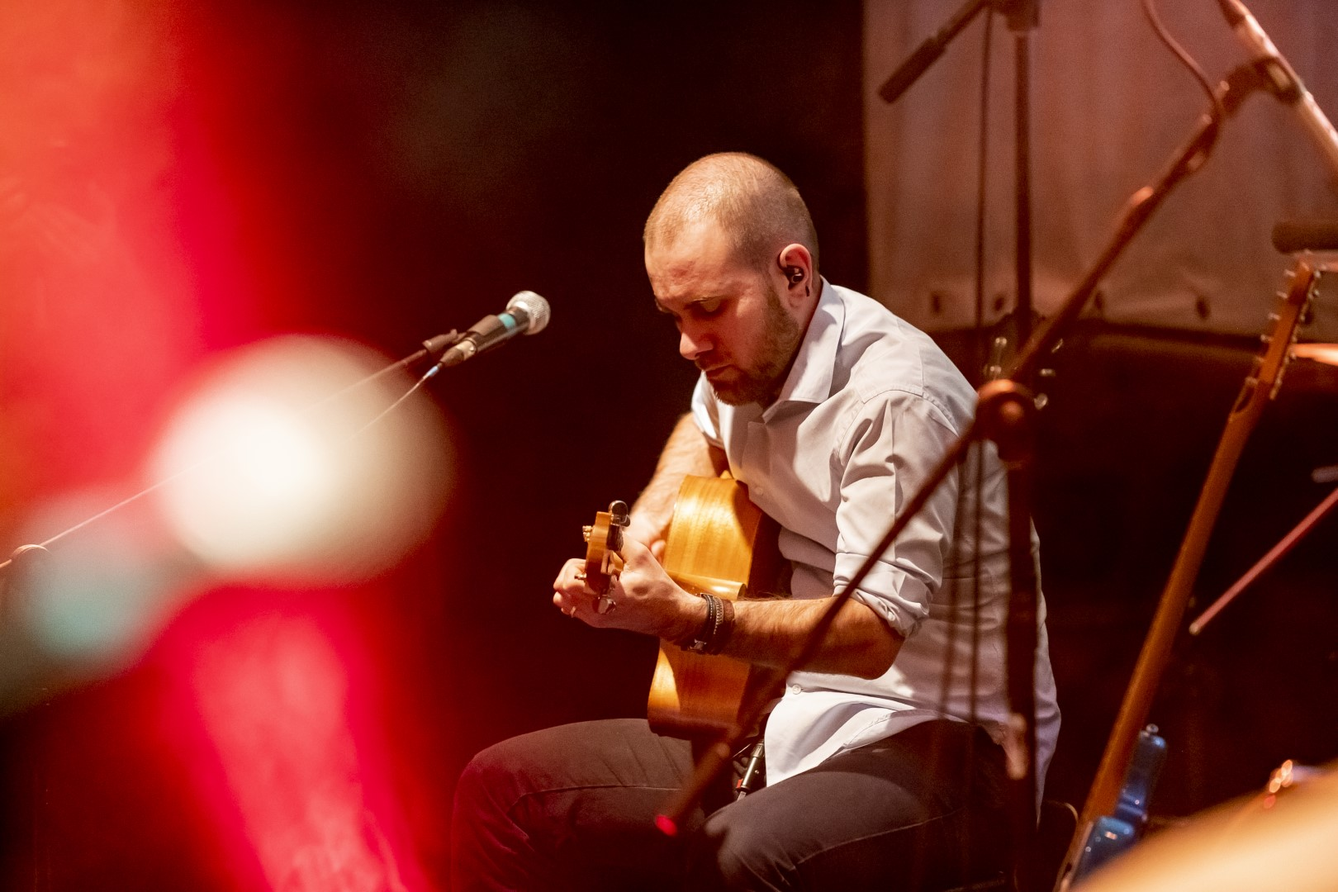
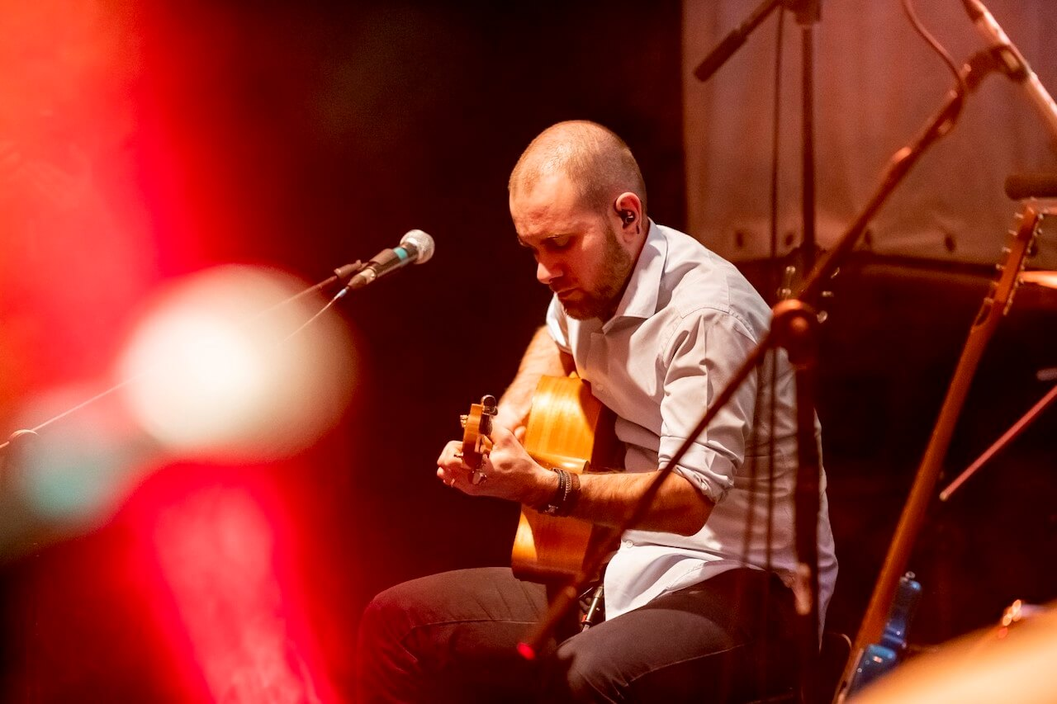
impl foto

diff --git a/css/style.css b/css/style.css
@@ -1,1 +1,1 @@
-*,*:before,*:after{box-sizing:border-box;margin:0;padding:0}html{-webkit-text-size-adjust:100%;-webkit-font-smoothing:antialiased;-moz-osx-font-smoothing:grayscale;scroll-behavior:smooth}body{background-color:#191919;color:#ddd;font-family:'Barlow Condensed',sans-serif;font-size:20px}h1,h2,h3,h4,p,ul,ol{display:block;font-size:inherit}img{max-width:100%;height:auto;border:0}hidden,.hidden{display:none !important}.right{float:right}[disabled]{opacity:.4;pointer-events:none}.btn{background-color:transparent;color:#ddd;border:1px solid #ddd;font-weight:800;display:inline-block;padding:10px 22px;border-radius:4px;cursor:pointer;transition:.3s;text-transform:uppercase;text-decoration:none;font-family:'Barlow Condensed',sans-serif;font-size:1rem}.btn:hover{background-color:#ddd;color:#191919}.btn+.btn{margin-left:6px}.btn.btn-soldout{opacity:.8;border-color:#b30000;color:#b30000;pointer-events:none}.btn.btn-important{background-color:#ddd;color:#191919}.btn-a{display:inline-block;border-bottom:8px solid #ccf5b3;color:#ccf5b3;padding-bottom:2px;font-weight:bold;font-size:2rem;cursor:pointer;transition:.3s}nav{position:absolute;bottom:30px;left:0;display:flex;flex-direction:row;z-index:100;font-size:.5rem;width:100%;justify-content:center}nav a{color:#ddd;text-decoration:none;font-size:1.6rem;padding:0px 0;transition:.3s;align-self:flex-start;margin-right:20px;cursor:pointer}nav a:hover:after{width:100%}nav a:hover{transform:translate(4px, 0)}nav a:after{transition:.3s;height:2px;content:'';width:0;position:absolute;bottom:-2px;left:0;background-color:#ddd}.photo-credits{position:absolute;top:10px;left:10px;z-index:10;font-size:.6rem}nav.social{bottom:30px;top:auto;right:30px;left:auto;text-align:right}nav.social a{font-size:1.5rem}.social-container{position:absolute}.social{position:absolute;top:12px;z-index:1;margin:0 auto;right:20px}.social img{width:30px;margin-left:5px}.logo{position:fixed;bottom:30px;left:30px;max-width:1000px;height:80px}.logo *{fill:#dddddd}.page{display:flex;padding:70px 120px 100px;justify-content:space-between;flex-wrap:wrap;max-width:1500px;margin:0 auto}.page .page-title{font-size:3rem;font-weight:bold;text-transform:uppercase;width:100%;margin-bottom:50px}.strip-1{background-image:url(img/photo/Foto-1079.jpg);height:400px;background-size:cover;width:calc(100% + 120px);margin:0 -120px;background-position:bottom;filter:saturate(.5)}.page-ventinove{justify-content:center;background-image:url(../img/ventinove-bkg.jpg);background-size:cover;background-position:center;max-width:none;padding:80px 60px 100px}.page-ventinove .ventinove-cover{width:300px;margin-right:30px;box-shadow:0 0 100px #191919;transition:.3s}.page-ventinove .ventinove-cover:hover{transform:translateY(-5px)}.page-ventinove .ventinove-title{font-size:2rem;text-transform:uppercase;align-self:flex-end}.page-ventinove .ventinove-title .btn-important{margin-top:15px}.page-ventinove .btn+.btn{margin-top:10px;margin-left:0}.page-militanza{justify-content:center;background-image:url(../img/militanza-bkg.jpg);background-size:cover;background-position:center;max-width:none;padding:80px 60px 100px}.page-militanza .militanza-cover{width:300px;margin-right:30px;box-shadow:0 0 100px #191919;transition:.3s}.page-militanza .militanza-cover:hover{transform:translateY(-5px)}.page-militanza .militanza-title{font-size:2rem;text-transform:uppercase;align-self:flex-end;color:#4b4130}.page-militanza .militanza-title .btn-important{margin-top:15px}.page-militanza .btn+.btn{margin-top:10px;margin-left:0}.page-vento{justify-content:center;background-image:url(../img/vento-in-tasca-bkg.jpg);background-size:cover;background-position:center;max-width:none;padding:80px 60px 100px}.page-vento .vento-cover{width:300px;margin-right:30px;box-shadow:0 0 100px #191919;transition:.3s}.page-vento .vento-cover:hover{transform:translateY(-5px)}.page-vento .vento-title{font-size:2rem;text-transform:uppercase;align-self:flex-end}.page-vento .vento-title .btn-important{margin-top:15px}.page-vento .btn+.btn{margin-top:10px;margin-left:0}.streaming{display:flex;justify-content:space-between;width:100%;flex-wrap:wrap}.streaming>a{height:50px;width:16%}.streaming>a div{height:100%;width:100%;background-size:cover}.page-streaming{padding-top:0}.page-disk .disk-container{display:flex;flex-wrap:wrap;justify-content:space-between}.page-disk .disk-container .disk{padding:20px;background:#222;margin-bottom:50px;box-shadow:0 0 30px #00000044;width:calc(22%);display:flex;flex-direction:column;flex-wrap:wrap;transition:.3s;will-change:transform}.page-disk .disk-container .disk:hover{transform:scale(1.03)}.page-disk .disk-container .disk .disk-title{font-weight:bold;margin-top:15px;font-size:1.2rem;text-align:right}.page-disk .disk-container .disk .disk-year{font-weight:500}.page-disk .disk-container .disk .disk-year,.page-disk .disk-container .disk .disk-label{text-align:right}.page-disk .disk-container .disk .disk-cover{width:calc(100% + 40px);height:auto;background-size:cover;margin:-20px -20px 0 -20px;max-width:none}.page-disk .disk-container .disk .disk-cta{margin-top:20px;text-align:right;flex-grow:1;display:flex;justify-content:flex-end;flex-wrap:wrap}.page-disk .disk-container .disk .disk-cta form>.btn{margin-left:10px}.page-disk .disk-container .disk .disk-cta .btn{margin-bottom:5px;align-self:flex-end}.page-disk .disk-container .disk form{display:inline}.page-andre{position:relative;background-color:#191919;padding-bottom:0}.page-andre .background-image{position:absolute;top:0;left:0;right:0;width:calc(100% + 70px);height:500px;background-size:100%;background-position:center;margin:0 -70px}.page-andre .background-image:after{content:'';position:absolute;top:0;left:0;width:100%;height:100%;background:linear-gradient(0deg, #191919, transparent)}.page-andre .page-title{text-align:right;position:relative}.page-andre .andre-intro{width:100%;min-height:400px;position:relative;display:flex;flex-direction:column;justify-content:end;margin-bottom:40px}.page-andre .andre-intro .andre-cit{font-style:italic;width:500px;font-size:1.1rem;text-align:right;align-self:flex-end}.page-andre .andre-intro .andre-cta{margin-top:30px;align-self:flex-end}.page-andre .andre-text{display:flex;padding-bottom:50px;justify-content:center;width:100%}.page-andre .andre-text>div:first-child{margin-right:40px}.page-andre .andre-text>*{width:350px}.page-andre .andre-img{width:100%;max-width:800px;margin:0 auto 60px}.page-andre .andre-text-strong{font-weight:600;font-style:italic;font-size:1.5rem;text-align:center;margin:50px 40px}.page-andre .andre-text-one-column{max-width:800px;margin:0 auto 60px}.page-andre .inline-gallery{margin:0 -120px 60px;width:calc(100% + 240px)}.inline-gallery{display:flex;width:100%;margin:0;flex-wrap:wrap}.inline-gallery>*{width:33.3333%;height:40vh;background-position:center;background-size:cover;filter:saturate(.7)}.highlights{font-weight:600;font-style:italic;font-size:1.5rem;text-align:center;margin:50px 40px;z-index:10;position:relative}.page-newsletter{justify-content:center;background-color:#222222;padding:50px}.page-newsletter .page-title{text-align:center;font-size:1.65rem}.page-newsletter form{display:flex}.page-newsletter .newsletter-input{position:relative}.page-newsletter .newsletter-input label{position:absolute;top:-20px}.page-newsletter .newsletter-input input{height:33px;border-radius:4px;border:none;width:240px;background-color:#ddd;margin-right:20px}.page-contact a{color:#ddd;margin-bottom:10px}.page-contact .contact-title{font-size:1.5rem;font-weight:bold;margin-bottom:10px}.page-contact>div:not(.page-title){margin-bottom:30px}.page-concert{width:100%;max-width:1000px;margin:0 auto}.page-concert a{color:#fff}.page-concert .concerts{margin:0 auto}.page-concert .concerts .concert:nth-child(odd){background-color:#222}.page-concert .concerts .concert{display:flex;flex-direction:row;justify-content:center;align-items:center;width:100%;padding:10px 20px}.page-concert .concerts .concert .concert-date{font-size:1.3rem;font-weight:bold;margin-right:20px}.page-concert .concerts .concert .concert-text{flex-grow:1}.page-concert .concerts .concert .concert-place{margin-right:10px;margin-bottom:5px}.page-concert .concerts .concert .concert-name{width:100%;font-style:italic;font-size:.9rem}.page-concert .concerts .concert .concert-cta{display:flex;margin-left:15px}.page-about{max-width:1000px;margin:0 auto}.page-about .about-image{width:100%;height:300px;background-position:bottom;background-size:cover;position:relative;margin:0px 0 60px}.page-about p{margin-bottom:10px}.page-fullscreen{position:relative;height:100vh;width:100%;max-width:none;max-height:1000px}.page-fullscreen .logo{width:300px;position:absolute;bottom:90px;margin:0 auto;left:0;right:0;z-index:10}.page-fullscreen .volume-off,.page-fullscreen .volume-on{position:absolute;top:10px;left:15px;z-index:150;width:40px;transition:.3s;cursor:pointer}.page-fullscreen .volume-off:hover,.page-fullscreen .volume-on:hover{opacity:.6}.page-fullscreen:after{content:'';position:absolute;bottom:0;left:0;width:100%;height:300px;background:linear-gradient(0deg, black, transparent);z-index:1}.shop-container{display:flex;flex-direction:column;min-height:100%;margin-top:40vh;margin-bottom:300px}.shop-item{width:70vw;max-width:2000px;margin:0 auto;margin-bottom:0;display:flex;position:relative}.shop-item .thumbs{display:flex;flex-direction:column}.shop-item .thumbs .thumb{width:100px;margin:0 0 10px 20px}.shop-item .item-title{font-size:3rem;color:#ddd}.shop-item .item-year{font-size:2rem}.shop-item .item-img{height:500px;width:500px;background-size:contain;background-repeat:no-repeat}.shop-item .item-desc{margin:0 50px;font-size:1.2rem}.shop-item .item-text{margin:40px 0 80px;color:#ddd}.item-alternative{flex-direction:row-reverse}.item-alternative .item-desc{text-align:right}.blocks{display:flex;flex-direction:column;min-height:100%;margin-top:40vh}.block{height:50vw;width:70vw;max-height:600px;max-width:2000px;margin:0 auto;margin-bottom:300px;position:relative}.block:hover .block-bkg{transform:scale(1.1)}.block:hover .block-title{transform:translate(10px, 10px)}.block:hover .block-description{transform:translate(10px, 10px)}.block:hover .btn{transform:translate(10px, 10px)}.block-bkg,video{width:100%;height:100%;position:absolute;top:0;left:0;background-size:cover;background-position:center;transition:.3s}video{object-fit:cover}.block-title{position:absolute;top:-30px;left:30px;font-weight:bold;color:#ddd;text-transform:uppercase;font-size:3em;transition:.3s}.block-description{color:#ddd;width:50%;position:absolute;right:30px;bottom:50px;font-size:1.2rem;transition:.3s}.block-description .btn{float:right;margin-top:30px}.block-alternative .block-title{right:30px;left:auto}.block-alternative .block-description{left:30px;right:auto}.block-alternative .block-description .btn{float:left}.cursor{position:fixed;left:0;top:0;pointer-events:none;left:-10px;top:-10px;z-index:11000;width:20px;height:20px;border:1px solid white;border-radius:50%;transition-duration:.3s;transition-timing-function:cubic-bezier(0, 0, .14, .99)}.cursor-hover{left:-25px;top:-25px;width:50px;height:50px;animation:cursorAnim3 .5s forwards;border:2px solid #ccf5b3}.cursor:after{content:"";width:6px;height:6px;position:absolute;background-color:#ccf5b3;border-radius:50%;opacity:.5;top:6px;left:6px;transition:.5s}.cursor-hover:after{width:40px;height:40px;top:2.5px;left:2.5px;backdrop-filter:invert(1)}@media screen and (max-width:1024px){.disk{width:calc(33% - 10px) !important}}@media screen and (max-width:768px){.page{padding:70px 40px 100px}.page-andre .inline-gallery{margin:0 -40px 60px !important;width:calc(100% + 80px) !important}.streaming{justify-content:center}.streaming a{width:150px}nav{flex-direction:column}nav a{align-self:center;font-size:1.2rem}.page-fullscreen .logo{bottom:160px}.inline-gallery>*{width:50%}.disk{width:calc(50% - 10px) !important}.page-concert .concerts .concert{flex-direction:column;text-align:center}.page-concert .concerts .concert .concert-cta{margin-top:15px;margin-bottom:5px;margin-left:0}.page-ventinove .ventinove-cover{margin-right:0}.page-ventinove .ventinove-title{text-align:center;margin-top:30px}.page-vento .vento-cover{margin-right:0}.page-vento .vento-title{text-align:center;margin-top:30px}}@media screen and (max-width:425px){.page{padding:30px 40px 60px}.page .page-title{font-size:1.8rem !important}.page-fullscreen .logo{width:calc(100% - 40px);bottom:160px}.page-andre .andre-intro .andre-cit{font-size:1.1rem;width:100%}.page-andre .andre-img{display:none}.page-andre .background-image{height:250px;background-repeat:no-repeat}.page-andre .andre-text-strong{margin:0px 0px 50px}.andre-text{flex-direction:column}.andre-text>div{width:100% !important}.andre-cta{display:flex;flex-direction:column;justify-content:center;width:100%}.andre-cta>.btn{width:auto;margin-left:0;margin-bottom:10px;text-align:center;align-self:center}.page-newsletter{padding:30px 30px 50px}.page-newsletter form{flex-direction:column;width:100%}.page-newsletter .newsletter-input{position:relative}.page-newsletter .newsletter-input label{position:absolute;top:-20px}.page-newsletter .newsletter-input input{width:100%;margin:10px 0}.highlights{font-size:1rem}.about-image{height:100px !important}.inline-gallery>*{width:100%}.disk{width:calc(100% - 10px) !important}}
+*,*:before,*:after{box-sizing:border-box;margin:0;padding:0}html{-webkit-text-size-adjust:100%;-webkit-font-smoothing:antialiased;-moz-osx-font-smoothing:grayscale;scroll-behavior:smooth}body{background-color:#191919;color:#ddd;font-family:'Barlow Condensed',sans-serif;font-size:20px}h1,h2,h3,h4,p,ul,ol{display:block;font-size:inherit}img{max-width:100%;height:auto;border:0}hidden,.hidden{display:none !important}.right{float:right}[disabled]{opacity:.4;pointer-events:none}.btn{background-color:transparent;color:#ddd;border:1px solid #ddd;font-weight:800;display:inline-block;padding:10px 22px;border-radius:4px;cursor:pointer;transition:.3s;text-transform:uppercase;text-decoration:none;font-family:'Barlow Condensed',sans-serif;font-size:1rem}.btn:hover{background-color:#ddd;color:#191919}.btn+.btn{margin-left:6px}.btn.btn-soldout{opacity:.8;border-color:#b30000;color:#b30000;pointer-events:none}.btn.btn-important{background-color:#ddd;color:#191919}.btn-a{display:inline-block;border-bottom:8px solid #ccf5b3;color:#ccf5b3;padding-bottom:2px;font-weight:bold;font-size:2rem;cursor:pointer;transition:.3s}nav{position:absolute;bottom:30px;left:0;display:flex;flex-direction:row;z-index:100;font-size:.5rem;width:100%;justify-content:center}nav a{color:#ddd;text-decoration:none;font-size:1.6rem;padding:0px 0;transition:.3s;align-self:flex-start;margin-right:20px;cursor:pointer}nav a:hover:after{width:100%}nav a:hover{transform:translate(4px, 0)}nav a:after{transition:.3s;height:2px;content:'';width:0;position:absolute;bottom:-2px;left:0;background-color:#ddd}.photo-credits{position:absolute;top:10px;left:10px;z-index:10;font-size:.6rem}nav.social{bottom:30px;top:auto;right:30px;left:auto;text-align:right}nav.social a{font-size:1.5rem}.social-container{position:absolute}.social{position:absolute;top:12px;z-index:1;margin:0 auto;right:20px}.social img{width:30px;margin-left:5px}.logo{position:fixed;bottom:30px;left:30px;max-width:1000px;height:80px}.logo *{fill:#dddddd}.page{display:flex;padding:70px 120px 100px;justify-content:space-between;flex-wrap:wrap;max-width:1500px;margin:0 auto}.page .page-title{font-size:3rem;font-weight:bold;text-transform:uppercase;width:100%;margin-bottom:50px}.strip-1{background-image:url(img/photo/all.jpg);height:400px;background-size:cover;width:calc(100% + 120px);margin:0 -120px;background-position:bottom;filter:saturate(.5)}.page-ventinove{justify-content:center;background-image:url(../img/ventinove-bkg.jpg);background-size:cover;background-position:center;max-width:none;padding:80px 60px 100px}.page-ventinove .ventinove-cover{width:300px;margin-right:30px;box-shadow:0 0 100px #191919;transition:.3s}.page-ventinove .ventinove-cover:hover{transform:translateY(-5px)}.page-ventinove .ventinove-title{font-size:2rem;text-transform:uppercase;align-self:flex-end}.page-ventinove .ventinove-title .btn-important{margin-top:15px}.page-ventinove .btn+.btn{margin-top:10px;margin-left:0}.page-militanza{justify-content:center;background-image:url(../img/militanza-bkg.jpg);background-size:cover;background-position:center;max-width:none;padding:80px 60px 100px}.page-militanza .militanza-cover{width:300px;margin-right:30px;box-shadow:0 0 100px #191919;transition:.3s}.page-militanza .militanza-cover:hover{transform:translateY(-5px)}.page-militanza .militanza-title{font-size:2rem;text-transform:uppercase;align-self:flex-end;color:#4b4130}.page-militanza .militanza-title .btn-important{margin-top:15px}.page-militanza .btn+.btn{margin-top:10px;margin-left:0}.page-vento{justify-content:center;background-image:url(../img/vento-in-tasca-bkg.jpg);background-size:cover;background-position:center;max-width:none;padding:80px 60px 100px}.page-vento .vento-cover{width:300px;margin-right:30px;box-shadow:0 0 100px #191919;transition:.3s}.page-vento .vento-cover:hover{transform:translateY(-5px)}.page-vento .vento-title{font-size:2rem;text-transform:uppercase;align-self:flex-end}.page-vento .vento-title .btn-important{margin-top:15px}.page-vento .btn+.btn{margin-top:10px;margin-left:0}.streaming{display:flex;justify-content:space-between;width:100%;flex-wrap:wrap}.streaming>a{height:50px;width:16%}.streaming>a div{height:100%;width:100%;background-size:cover}.page-streaming{padding-top:0}.page-disk .disk-container{display:flex;flex-wrap:wrap;justify-content:space-between}.page-disk .disk-container .disk{padding:20px;background:#222;margin-bottom:50px;box-shadow:0 0 30px #00000044;width:calc(22%);display:flex;flex-direction:column;flex-wrap:wrap;transition:.3s;will-change:transform}.page-disk .disk-container .disk:hover{transform:scale(1.03)}.page-disk .disk-container .disk .disk-title{font-weight:bold;margin-top:15px;font-size:1.2rem;text-align:right}.page-disk .disk-container .disk .disk-year{font-weight:500}.page-disk .disk-container .disk .disk-year,.page-disk .disk-container .disk .disk-label{text-align:right}.page-disk .disk-container .disk .disk-cover{width:calc(100% + 40px);height:auto;background-size:cover;margin:-20px -20px 0 -20px;max-width:none}.page-disk .disk-container .disk .disk-cta{margin-top:20px;text-align:right;flex-grow:1;display:flex;justify-content:flex-end;flex-wrap:wrap}.page-disk .disk-container .disk .disk-cta form>.btn{margin-left:10px}.page-disk .disk-container .disk .disk-cta .btn{margin-bottom:5px;align-self:flex-end}.page-disk .disk-container .disk form{display:inline}.page-andre{position:relative;background-color:#191919;padding-bottom:0}.page-andre .background-image{position:absolute;top:0;left:0;right:0;width:calc(100% + 70px);height:500px;background-size:100%;background-position:center;margin:0 -70px}.page-andre .background-image:after{content:'';position:absolute;top:0;left:0;width:100%;height:100%;background:linear-gradient(0deg, #191919, transparent)}.page-andre .page-title{text-align:right;position:relative}.page-andre .andre-intro{width:100%;min-height:400px;position:relative;display:flex;flex-direction:column;justify-content:end;margin-bottom:40px}.page-andre .andre-intro .andre-cit{font-style:italic;width:500px;font-size:1.1rem;text-align:right;align-self:flex-end}.page-andre .andre-intro .andre-cta{margin-top:30px;align-self:flex-end}.page-andre .andre-text{display:flex;padding-bottom:50px;justify-content:center;width:100%}.page-andre .andre-text>div:first-child{margin-right:40px}.page-andre .andre-text>*{width:350px}.page-andre .andre-img{width:100%;max-width:800px;margin:0 auto 60px}.page-andre .andre-text-strong{font-weight:600;font-style:italic;font-size:1.5rem;text-align:center;margin:50px 40px}.page-andre .andre-text-one-column{max-width:800px;margin:0 auto 60px}.page-andre .inline-gallery{margin:0 -120px 60px;width:calc(100% + 240px)}.inline-gallery{display:flex;width:100%;margin:0;flex-wrap:wrap}.inline-gallery>*{width:33.3333%;height:40vh;background-position:center;background-size:cover;filter:saturate(.7)}.highlights{font-weight:600;font-style:italic;font-size:1.5rem;text-align:center;margin:50px 40px;z-index:10;position:relative}.page-newsletter{justify-content:center;background-color:#222222;padding:50px}.page-newsletter .page-title{text-align:center;font-size:1.65rem}.page-newsletter form{display:flex}.page-newsletter .newsletter-input{position:relative}.page-newsletter .newsletter-input label{position:absolute;top:-20px}.page-newsletter .newsletter-input input{height:33px;border-radius:4px;border:none;width:240px;background-color:#ddd;margin-right:20px}.page-contact a{color:#ddd;margin-bottom:10px}.page-contact .contact-title{font-size:1.5rem;font-weight:bold;margin-bottom:10px}.page-contact>div:not(.page-title){margin-bottom:30px}.page-concert{width:100%;max-width:1000px;margin:0 auto}.page-concert a{color:#fff}.page-concert .concerts{margin:0 auto}.page-concert .concerts .concert:nth-child(odd){background-color:#222}.page-concert .concerts .concert{display:flex;flex-direction:row;justify-content:center;align-items:center;width:100%;padding:10px 20px}.page-concert .concerts .concert .concert-date{font-size:1.3rem;font-weight:bold;margin-right:20px}.page-concert .concerts .concert .concert-text{flex-grow:1}.page-concert .concerts .concert .concert-place{margin-right:10px;margin-bottom:5px}.page-concert .concerts .concert .concert-name{width:100%;font-style:italic;font-size:.9rem}.page-concert .concerts .concert .concert-cta{display:flex;margin-left:15px}.page-about{max-width:1000px;margin:0 auto}.page-about .about-image{width:100%;height:500px;background-position:bottom;background-size:cover;position:relative;margin:0px 0 60px}.page-about p{margin-bottom:10px}.page-fullscreen{position:relative;height:100vh;width:100%;max-width:none;max-height:1000px}.page-fullscreen .logo{width:300px;position:absolute;bottom:90px;margin:0 auto;left:0;right:0;z-index:10}.page-fullscreen .volume-off,.page-fullscreen .volume-on{position:absolute;top:10px;left:15px;z-index:150;width:40px;transition:.3s;cursor:pointer}.page-fullscreen .volume-off:hover,.page-fullscreen .volume-on:hover{opacity:.6}.page-fullscreen:after{content:'';position:absolute;bottom:0;left:0;width:100%;height:300px;background:linear-gradient(0deg, black, transparent);z-index:1}.shop-container{display:flex;flex-direction:column;min-height:100%;margin-top:40vh;margin-bottom:300px}.shop-item{width:70vw;max-width:2000px;margin:0 auto;margin-bottom:0;display:flex;position:relative}.shop-item .thumbs{display:flex;flex-direction:column}.shop-item .thumbs .thumb{width:100px;margin:0 0 10px 20px}.shop-item .item-title{font-size:3rem;color:#ddd}.shop-item .item-year{font-size:2rem}.shop-item .item-img{height:500px;width:500px;background-size:contain;background-repeat:no-repeat}.shop-item .item-desc{margin:0 50px;font-size:1.2rem}.shop-item .item-text{margin:40px 0 80px;color:#ddd}.item-alternative{flex-direction:row-reverse}.item-alternative .item-desc{text-align:right}.blocks{display:flex;flex-direction:column;min-height:100%;margin-top:40vh}.block{height:50vw;width:70vw;max-height:600px;max-width:2000px;margin:0 auto;margin-bottom:300px;position:relative}.block:hover .block-bkg{transform:scale(1.1)}.block:hover .block-title{transform:translate(10px, 10px)}.block:hover .block-description{transform:translate(10px, 10px)}.block:hover .btn{transform:translate(10px, 10px)}.block-bkg,video{width:100%;height:100%;position:absolute;top:0;left:0;background-size:cover;background-position:center;transition:.3s}video{object-fit:cover}.block-title{position:absolute;top:-30px;left:30px;font-weight:bold;color:#ddd;text-transform:uppercase;font-size:3em;transition:.3s}.block-description{color:#ddd;width:50%;position:absolute;right:30px;bottom:50px;font-size:1.2rem;transition:.3s}.block-description .btn{float:right;margin-top:30px}.block-alternative .block-title{right:30px;left:auto}.block-alternative .block-description{left:30px;right:auto}.block-alternative .block-description .btn{float:left}.cursor{position:fixed;left:0;top:0;pointer-events:none;left:-10px;top:-10px;z-index:11000;width:20px;height:20px;border:1px solid white;border-radius:50%;transition-duration:.3s;transition-timing-function:cubic-bezier(0, 0, .14, .99)}.cursor-hover{left:-25px;top:-25px;width:50px;height:50px;animation:cursorAnim3 .5s forwards;border:2px solid #ccf5b3}.cursor:after{content:"";width:6px;height:6px;position:absolute;background-color:#ccf5b3;border-radius:50%;opacity:.5;top:6px;left:6px;transition:.5s}.cursor-hover:after{width:40px;height:40px;top:2.5px;left:2.5px;backdrop-filter:invert(1)}@media screen and (max-width:1024px){.disk{width:calc(33% - 10px) !important}}@media screen and (max-width:768px){.page{padding:70px 40px 100px}.page-andre .inline-gallery{margin:0 -40px 60px !important;width:calc(100% + 80px) !important}.streaming{justify-content:center}.streaming a{width:150px}nav{flex-direction:column}nav a{align-self:center;font-size:1.2rem}.page-fullscreen .logo{bottom:160px}.inline-gallery>*{width:50%}.disk{width:calc(50% - 10px) !important}.page-concert .concerts .concert{flex-direction:column;text-align:center}.page-concert .concerts .concert .concert-cta{margin-top:15px;margin-bottom:5px;margin-left:0}.page-ventinove .ventinove-cover{margin-right:0}.page-ventinove .ventinove-title{text-align:center;margin-top:30px}.page-vento .vento-cover{margin-right:0}.page-vento .vento-title{text-align:center;margin-top:30px}}@media screen and (max-width:425px){.page{padding:30px 40px 60px}.page .page-title{font-size:1.8rem !important}.page-fullscreen .logo{width:calc(100% - 40px);bottom:160px}.page-andre .andre-intro .andre-cit{font-size:1.1rem;width:100%}.page-andre .andre-img{display:none}.page-andre .background-image{height:250px;background-repeat:no-repeat}.page-andre .andre-text-strong{margin:0px 0px 50px}.andre-text{flex-direction:column}.andre-text>div{width:100% !important}.andre-cta{display:flex;flex-direction:column;justify-content:center;width:100%}.andre-cta>.btn{width:auto;margin-left:0;margin-bottom:10px;text-align:center;align-self:center}.page-newsletter{padding:30px 30px 50px}.page-newsletter form{flex-direction:column;width:100%}.page-newsletter .newsletter-input{position:relative}.page-newsletter .newsletter-input label{position:absolute;top:-20px}.page-newsletter .newsletter-input input{width:100%;margin:10px 0}.highlights{font-size:1rem}.about-image{height:100px !important}.inline-gallery>*{width:100%}.disk{width:calc(100% - 10px) !important}}

diff --git a/index.html b/index.html
@@ -15,7 +15,7 @@
     <link rel="icon" type="image/png" href="img/favicon.png" >
     <link rel="apple-touch-icon" type="image/png" href="img/favicon.png" />
 
-    <link rel="stylesheet" href="css/style.css?v=8">
+    <link rel="stylesheet" href="css/style.css?v=9">
 
     <link rel="preconnect" href="https://fonts.googleapis.com">
     <link rel="preconnect" href="https://fonts.gstatic.com" crossorigin>
@@ -636,7 +636,7 @@
                 Due ore di musica popolare, in un viaggio che dall'Italia di De Andrè arriva fino alle melodie delle scogliere irlandesi.
             </div>
 
-            <div class="about-image" style="background-image:url(img/photo/Foto-1079.jpg)">
+            <div class="about-image" style="background-image:url(img/photo/all.jpg)">
 
             </div>
             <div class="" ></div>
@@ -925,6 +925,6 @@
             </div>
         </div>
     </div>
-    <script src="js/main.js?v=8"></script>
+    <script src="js/main.js?v=9"></script>
 </body>
 </html>

diff --git a/css/style.less b/css/style.less
@@ -213,7 +213,7 @@ nav.social a {
 }
 
 .strip-1 {
-    background-image: url(img/photo/Foto-1079.jpg);
+    background-image: url(img/photo/all.jpg);
     height: 400px;
     background-size: cover;
     width: calc(100% + 120px);
@@ -651,7 +651,7 @@ nav.social a {
 
     .about-image {
         width: 100%;
-        height: 300px;
+        height: 500px;
         background-position: bottom;
         background-size: cover;
         position: relative;
